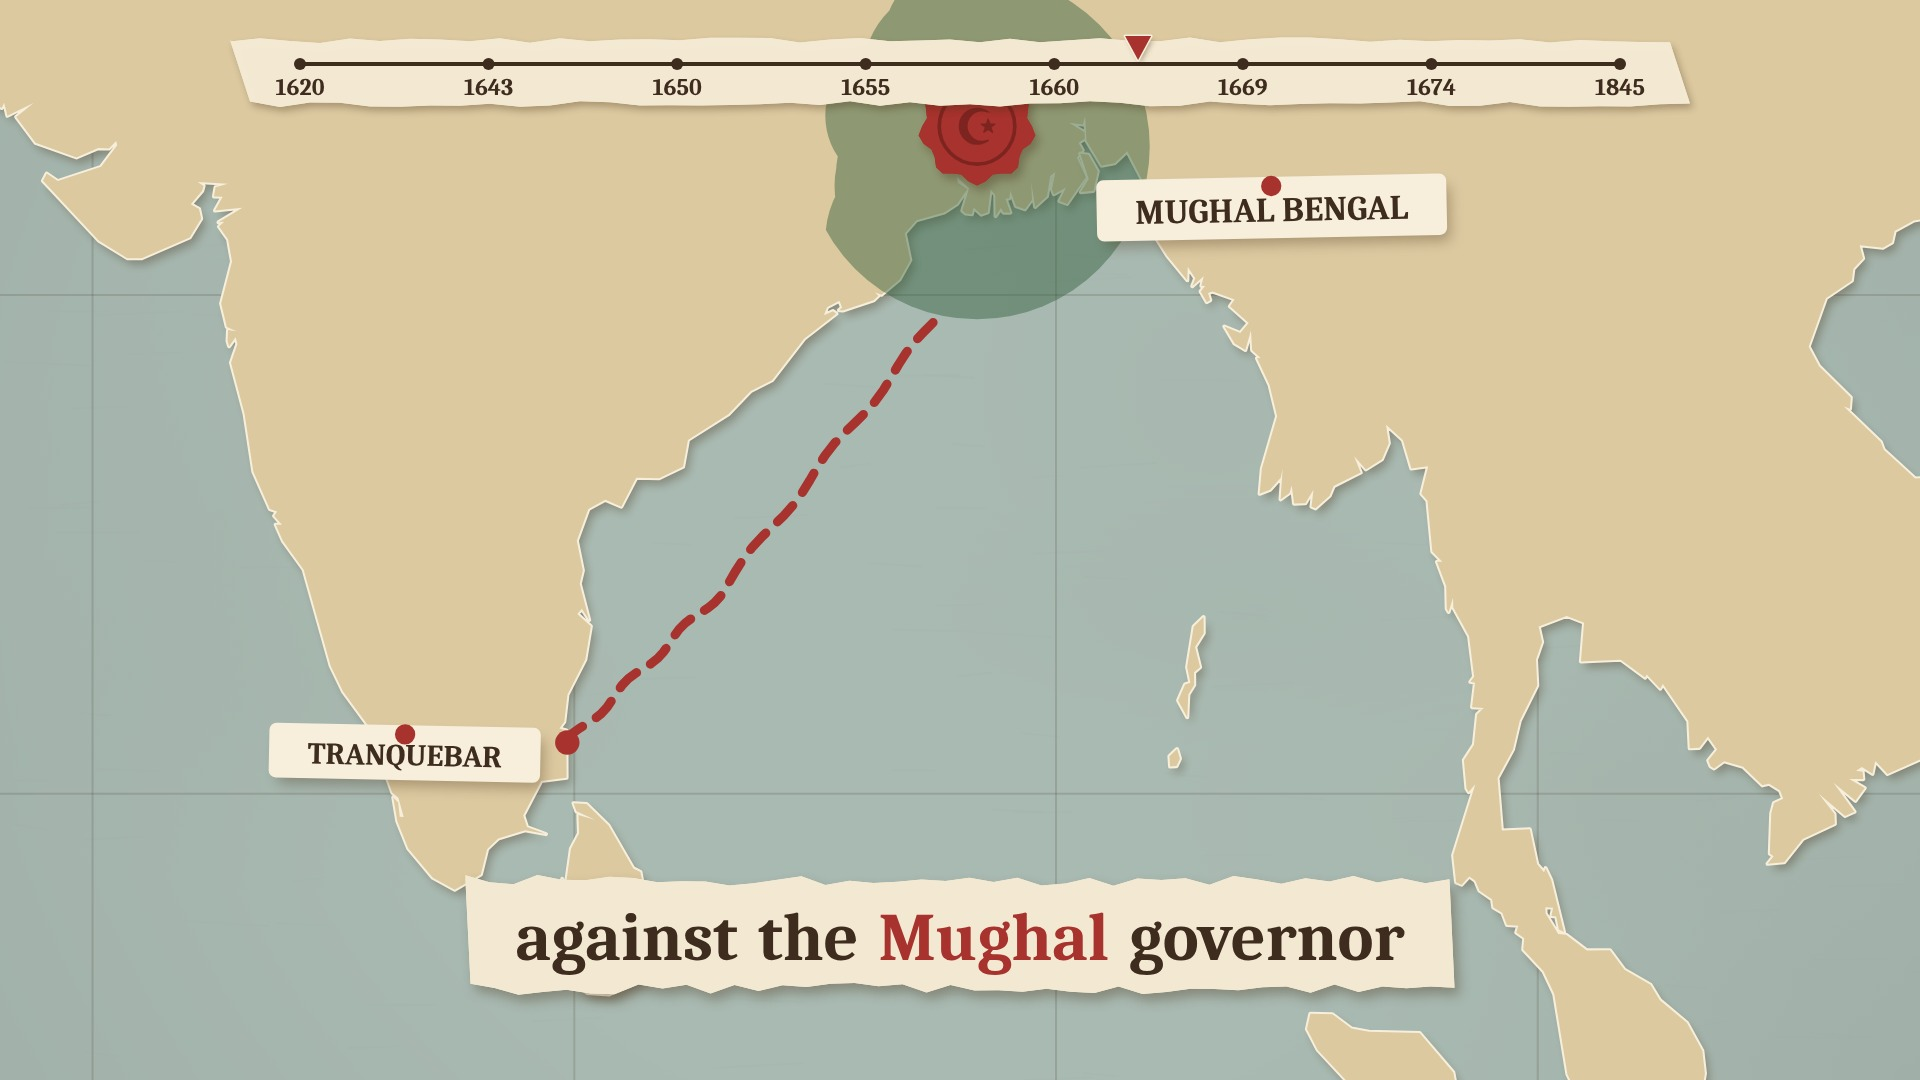
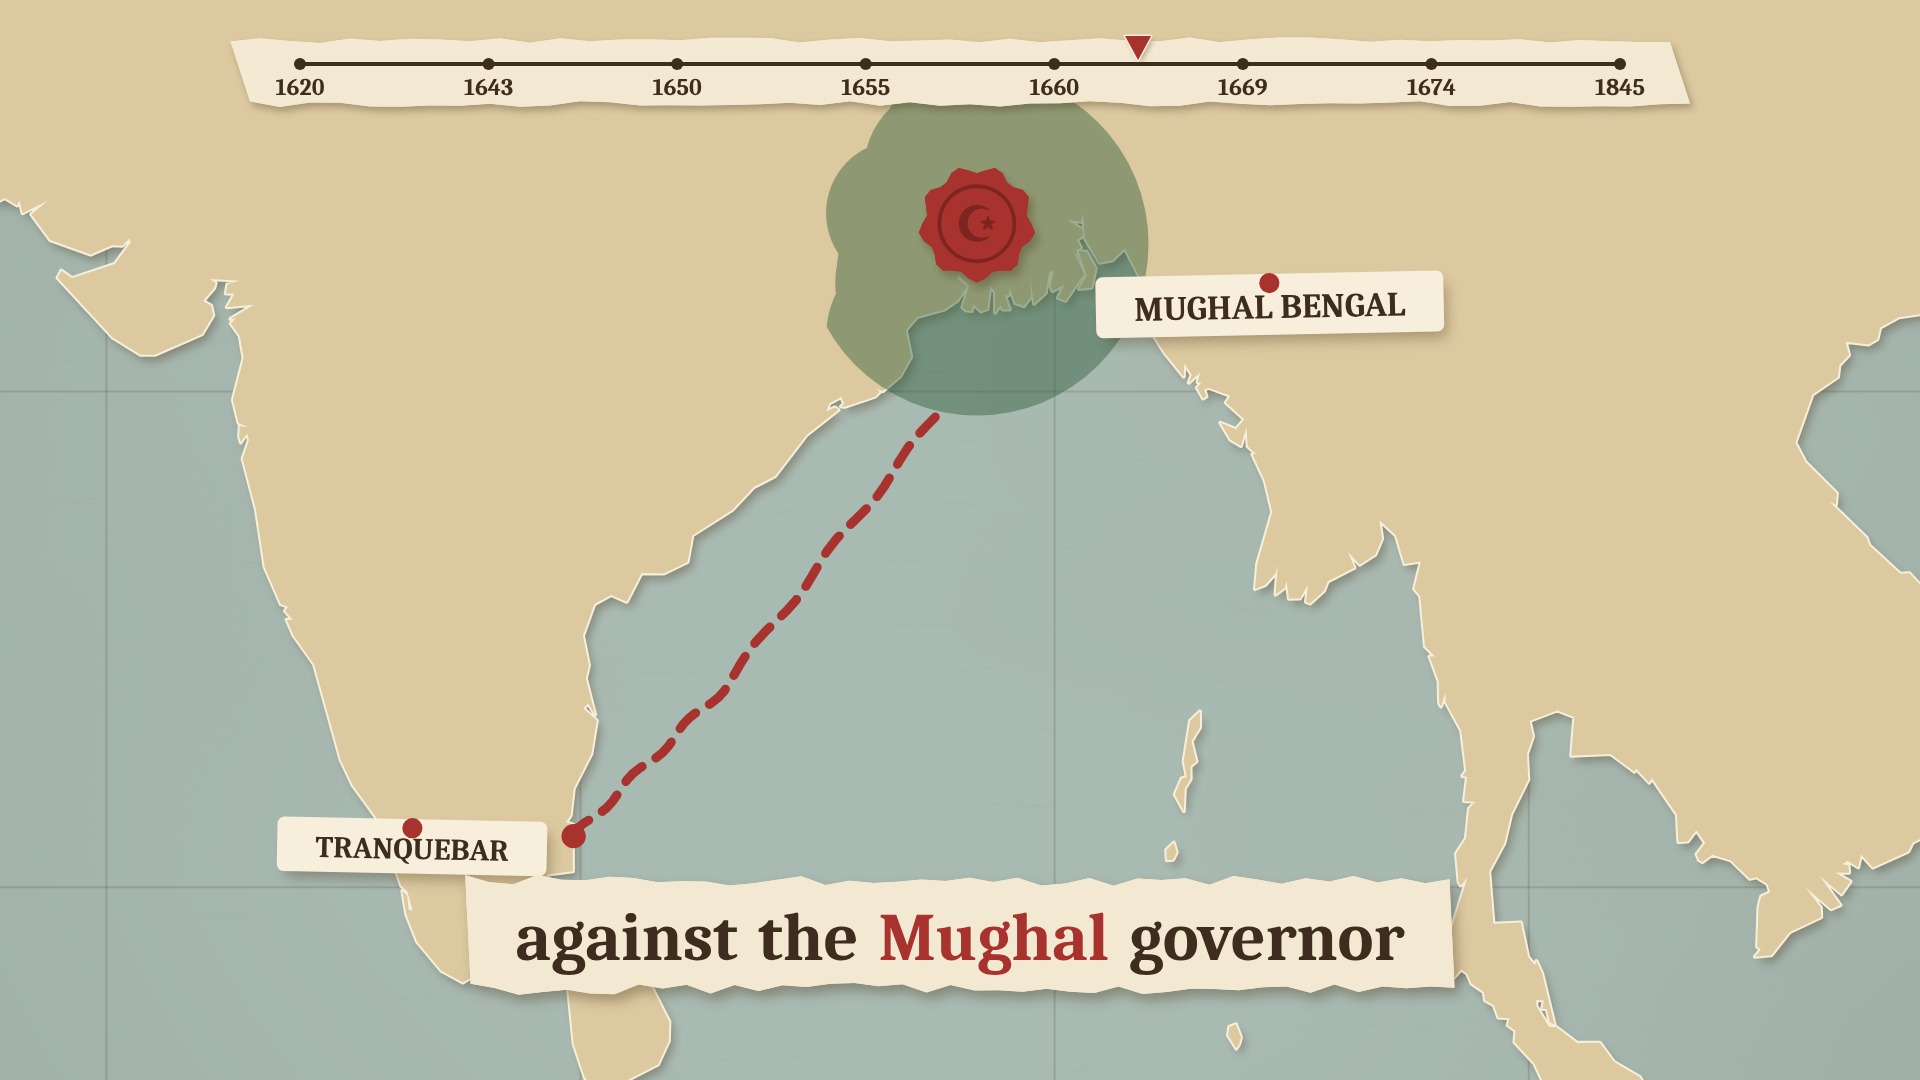
last-dane: beat 7 (a sail)
Claude-Session: https://claude.ai/code/session_01GgesWizCn3XPjU9Z13qe9i

diff --git a/last-dane/src/beats/b7_sail.js b/last-dane/src/beats/b7_sail.js
@@ -1,0 +1,100 @@
+// BEAT 7 · 1669 · A SAIL! (lines 78-91). Van Hagen to Copenhagen; the Færø; "IF DEAD…"; alive; peace and new villages.
+import { ctx, W, H, TAU, clamp, lerp, eo, eio, eob, circle } from '../core/lib.js';
+import { L, Le, Wd } from '../core/timing.js';
+import * as K from '../core/kit.js';
+import { at, pop, dim, ground, crowd, shapeOf } from './common.js';
+const { P, cut, P_rr, P_poly } = K;
+const VOY = ['Tranquebar', [74, 6], [62, 0], [55, -20], [35, -36], 'Cape of Good Hope', [10, -36], [-8, -20], [-22, 10], [-12, 35], [4, 51], 'Copenhagen'];
+
+export function b7(add, ev, snap) {
+  // S110 · whip → Geert van Hagen (Dutch coat, orange accent) takes the sealed letter; BEAT CARD
+  { const st = at(78), ms = Wd('messenger', 78);
+    add({ id: 'B7-S110', at: st, beat: 7, year: 1668, enter: 'whip', cam: K.cam.push(960, 560, 0.08), note: 'one last messenger',
+      draw(lt, d, t) { K.daySky(91, 640); K.sea(700, t); ground(860, '#C9B48A'); K.person({ who: 'kongsOld', x: 640, y: 1040, h: 600, t, arm: 55, prop: null }); K.person({ who: 'vanHagen', x: 1240, y: 1040, h: 600, t, dir: -1, arm: 40 });
+        const k = eio(clamp((t - ms + 0.2) / 0.8)); ctx.save(); ctx.translate(lerp(820, 1080, k), 650); ctx.rotate(-0.1); cut(P_rr(-70, -45, 140, 90, 4), '#F3E9D2', { shadow: 0.6, edge: 0 }); K.seal(0, 0, 0.22, ''); ctx.restore(); } });
+    ev(ms - 0.2, 'page', { note: 'letter handed over' });
+  }
+  // S111 · name slip GEERT VAN HAGEN
+  { const st = at(79), dt = Wd('dutchman', 79);
+    add({ id: 'B7-S111', at: st, beat: 7, year: 1668, cam: K.cam.push(1100, 420, 0.10), note: 'Geert van Hagen',
+      draw(lt, d, t) { K.daySky(92, 640); K.sea(700, t); ground(860, '#C9B48A'); K.person({ who: 'vanHagen', x: 1100, y: 1100, h: 820, t, dir: -1, arm: 30 }); K.slip('GEERT VAN HAGEN', 620, 330, pop(t, dt + 0.5), -0.03, 52); K.slip('A DUTCH SERGEANT', 640, 460, pop(t, dt + 0.8), 0.02, 32); } });
+    ev(dt + 0.5, 'pop', { note: 'name slip' });
+  }
+  // S112 · world map: the route races Tranquebar → Copenhagen
+  { const st = at(80);
+    add({ id: 'B7-S112', at: st, beat: 7, year: 1668, enter: 'whip', cam: K.cam.push(700, 400, 0.08), note: 'all the way to Copenhagen',
+      draw(lt, d, t) { const pr = K.realMap('world', { view: [-62, -44, 158, 78] }); const p = eio(clamp(lt / (d - 0.2))); const h = K.geoRoute(pr, VOY, p, { wobble: 4 }); if (p < 1) { ctx.save(); ctx.translate(h[0], h[1]); K.ship(0, 0, 0.12, 0); ctx.restore(); }
+        const [cx, cy] = K.place(pr, 'Copenhagen'), [tx, ty] = K.place(pr, 'Tranquebar'); circle(tx, ty, 10, P.crimson); circle(cx, cy, 10, P.ink); K.slip('COPENHAGEN', cx + 150, cy + 10, pop(t, st + d - 0.5), 0.02, 30); } });
+    ev(st + 0.1, 'route', { note: 'route races', dur: 1.6 });
+  }
+  // S113 · COPENHAGEN: the king's seal thuds on "worked"
+  { const st = at(81), wk = Wd('worked', 81);
+    add({ id: 'B7-S113', at: st, beat: 7, year: 1668, enter: 'whip', cam: K.cam.push(960, 540, 0.06), snaps: [snap(wk, 960, 520, 1.15, 0.6)], note: 'this time it worked',
+      draw(lt, d, t) { K.parchment(93); cut(P_rr(560, 300, 800, 520, 6), '#F3E9D2', { shadow: 1, edge: 0 }); ctx.strokeStyle = 'rgba(62,44,30,0.4)'; ctx.lineWidth = 4; for (let r = 0; r < 6; r++) { ctx.beginPath(); ctx.moveTo(640, 380 + r * 52); ctx.lineTo(1280 - r * 40, 380 + r * 52); ctx.stroke(); }
+        K.person({ who: 'king', x: 1650, y: 1000, h: 640, t, a: 0.85 }); if (t > wk) K.seal(1160, 700, pop(t, wk, 0.18) * 0.9, '♛'); K.coldWash(0.5); } });
+    ev(wk, 'seal', { note: "the king's seal" });
+  }
+  // S114 · STAT CARD FÆRØ · MAY 1669; a sail on the horizon
+  { const st = at(82), my = Wd('may', 82);
+    add({ id: 'B7-S114', at: st, beat: 7, year: 1669, enter: 'whip', cam: K.cam.push(1300, 560, 0.08), note: 'May 1669: a sail',
+      draw(lt, d, t) { K.daySky(94, 620); K.sea(640, t); const k = eio(clamp(lt / d)); K.ship(lerp(1700, 1450, k), 640, lerp(0.12, 0.22, k), 0); },
+      overlay(lt, d, t) { K.statCard('MAY 1669', 'THE FÆRØ ARRIVES', 560, 420, pop(t, my), { date: 1, size: 84 }); } });
+    ev(my, 'stat', { note: 'May 1669' }); ev(st + 1.0, 'bell', { note: 'distant bell', gain: 0.4 });
+  }
+  // S115 · the frigate Færø sails in; FÆRØ slip
+  { const st = at(83), fr = Wd('frigate', 83);
+    add({ id: 'B7-S115', at: st, beat: 7, year: 1669, cam: K.cam.drift(-110, 960, 520, 1.05), note: 'the frigate Færø',
+      draw(lt, d, t) { K.daySky(95, 620); K.sea(640, t, 3); const k = eio(clamp(lt / d)); K.ship(lerp(1500, 1100, k), 760 + K.idle.bob(t, 2, 8), 1.05, Math.sin(t * 1.3) * 0.03); ctx.save(); ctx.translate(lerp(1500, 1100, k), 760 + K.idle.bob(t, 2, 8)); ctx.scale(1.05, 1.05); ctx.fillStyle = P.crimson; ctx.fillRect(10, -520, 120, 80); ctx.fillStyle = '#FBF6EA'; ctx.fillRect(48, -520, 14, 80); ctx.fillRect(10, -486, 120, 14); ctx.restore(); K.slip('FÆRØ', 560, 320, pop(t, fr + 0.5), -0.03, 64); } });
+    ev(fr + 0.5, 'pop', { note: 'FÆRØ' }); ev(st + 0.2, 'appear', { note: 'sails breathe', type: 'flap' });
+  }
+  // S116 · the anchor drops off Tranquebar; bell + cheer on "anchor"
+  { const st = at(84), an = Wd('anchor', 84);
+    add({ id: 'B7-S116', at: st, beat: 7, year: 1669, cam: K.cam.push(960, 600, 0.07), note: 'anchor dropped; cheer',
+      draw(lt, d, t) { K.daySky(96, 600); K.sea(620, t); K.fortDansborg(420, 860, 0.7, t, { wall: 1, towers: 4, houses: 1 }); K.ship(1350, 760 + K.idle.bob(t, 2, 6), 0.8, 0); const k = clamp((t - an) / 0.5); ctx.strokeStyle = P.ink; ctx.lineWidth = 4; ctx.beginPath(); ctx.moveTo(1180, 770); ctx.lineTo(1150, 770 + 160 * k); ctx.stroke(); if (k > 0) cut(P_poly([[1130, 760 + 160 * k], [1170, 760 + 160 * k], [1150, 790 + 160 * k]]), P.ink, { shadow: 0.3, edge: 2 });
+        ground(880, '#DCC9A0'); for (let i = 0; i < 6; i++) K.person({ who: ['weaver', 'trader', 'soldier', 'defender', 'child', 'portuguese'][i], x: 260 + i * 140, y: 1020, h: 260, t, seed: i, arm: t > an ? 150 + Math.sin(t * 8 + i) * 20 : 0 }); } });
+    ev(an, 'bell', { note: 'ship bell' }); ev(an + 0.3, 'appear', { note: 'cheer', type: 'bed', name: 'crowd', dur: 1.5 });
+  }
+  // S117 · Henrik Eggers steps ashore: sharp uniform, sneer; name slip
+  { const st = at(85), eg = Wd('eggers', 85);
+    add({ id: 'B7-S117', at: st, beat: 7, year: 1669, enter: 'whip', cam: K.cam.push(1100, 460, 0.08), note: 'Henrik Eggers',
+      draw(lt, d, t) { K.daySky(97, 620); K.sea(660, t); ground(860, '#DCC9A0'); K.person({ who: 'officer', x: 1450, y: 1040, h: 560, t, dir: -1, seed: 2 }); K.person({ who: 'eggers', x: lerp(1300, 1080, eio(clamp(lt / 1.2))), y: 1060, h: 680, t, dir: -1, walk: lt < 1.2 ? t * 5 : undefined }); K.slip('HENRIK EGGERS', 560, 320, pop(t, eg), -0.03, 52); } });
+    ev(eg, 'pop', { note: 'name slip' });
+  }
+  // S118-119 · sealed orders: the seal cracks, the sheet unfolds to "IF DEAD…"; the town greys on "lost"
+  { const st = at(86), ins = Wd('instructions', 86), dd = Wd('dead', 87), ls = Wd('lost', 87);
+    add({ id: 'B7-S118', at: st, beat: 7, year: 1669, cam: K.cam.push(960, 520, 0.06), note: 'sealed instructions', draw(lt, d, t) { K.parchment(98); dim(0.25, '#7A4B3A'); K.sealedOrders(960, 540, 1.3, clamp((t - ins) / 1.6) * 0.45); } });
+    add({ id: 'B7-S119', at: at(87), beat: 7, year: 1669, cam: K.cam.push(960, 500, 0.08), snaps: [snap(dd, 960, 460, 1.15)], note: 'IF DEAD…',
+      draw(lt, d, t) { K.parchment(98); dim(0.25, '#7A4B3A'); K.sealedOrders(820, 540, 1.3, 0.45 + 0.55 * clamp((t - at(87)) / 0.8)); const g = clamp((t - ls) / 0.5); ctx.save(); ctx.filter = `grayscale(${g})`; K.fortDansborg(1530, 760, 0.42, t, { houses: 1 }); ctx.restore(); if (g > 0) { ctx.save(); ctx.globalAlpha = 0.5 * g; ctx.fillStyle = '#5B5B5B'; ctx.fillRect(1300, 560, 460, 220); ctx.restore(); } } });
+    ev(ins, 'seal', { note: 'seal cracks', gain: 0.6 }); ev(at(87) + 0.3, 'page', { note: 'orders unfold' }); ev(ls, 'appear', { note: 'town greys', type: 'swell', dur: 0.8 });
+  }
+  // S120 · SNAP on "alive": Kongsbakke at the gate with his lantern
+  { const st = at(88), av = Wd('alive', 88);
+    add({ id: 'B7-S120', at: st, beat: 7, year: 1669, enter: 'whip', cam: K.cam.push(900, 480, 0.06), snaps: [snap(av, 820, 420, 1.25)], note: 'found alive',
+      draw(lt, d, t) { K.daySky(99, 760); K.fortDansborg(960, 880, 1.7, t, { flag: true }); ground(880, '#C9B48A'); K.person({ who: 'kongsOld', x: 820, y: 1060, h: 660, t, prop: 'lantern', arm: 25 }); K.person({ who: 'eggers', x: 1500, y: 1060, h: 620, t, dir: -1, mood: 'worried' }); if (t > av) K.stamp('ALIVE', 1320, 330, pop(t, av, 0.18), 0.08, 90); } });
+    ev(av, 'stamp', { note: 'ALIVE' });
+  }
+  // S121 · the town in good order: market, flag, drilled guards
+  { const st = at(89), od = Wd('order', 89);
+    add({ id: 'B7-S121', at: st, beat: 7, year: 1669, cam: K.cam.drift(110, 960, 560, 1.05), note: 'the colony in good order',
+      draw(lt, d, t) { K.daySky(100, 620); K.fortDansborg(960, 760, 1.0, t, { wall: 1, towers: 4, houses: 1 }); ground(760, '#C9B48A'); for (let i = 0; i < 4; i++) cut(P_rr(200 + i * 420, 860, 200, 90, 8), ['#C8952F', '#A8503E', '#7E8B5A', '#C9B48A'][i], { shadow: 0.6, edge: 3 });
+        crowd([['weaver', 300, 1040], ['trader', 520, 1030], ['soldier', 760, 1040, { prop: 'pike' }], ['child', 980, 1040], ['defender', 1240, 1030], ['weaver', 1480, 1040], ['trader', 1700, 1030]], t, 300); K.stamp('IN GOOD ORDER', 960, 230, pop(t, od, 0.2), -0.05, 60); } });
+    ev(st + 0.3, 'appear', { note: 'market life', type: 'bed', name: 'crowd', dur: 1.8 }); ev(od, 'stamp', { note: 'IN GOOD ORDER' });
+  }
+  // S122 · map: crimson and green meet; PEACE
+  { const st = at(90), pc = Wd('peace', 90);
+    add({ id: 'B7-S122', at: st, beat: 7, year: 1669, enter: 'whip', cam: K.cam.push(1060, 520, 0.07), note: 'peace with the Nayak',
+      draw(lt, d, t) { const pr = K.realMap('south', { view: [77.6, 9.9, 81.6, 12.1] }); const [tx, ty] = K.place(pr, 'Tranquebar'), [jx, jy] = K.place(pr, 'Tanjore'); const land = shapeOf(pr, K.GEO.data.south.land);
+        ctx.save(); ctx.globalAlpha = 0.55; K.greenTide(land, 1, jx, jy, 900, 3); ctx.restore(); K.inkBleed(() => { ctx.beginPath(); ctx.arc(tx, ty, 50, 0, TAU); }, P.crimson, 1, tx, ty, 60, 2);
+        K.seal(jx + 140, jy - 60, pop(t, pc) * 0.55, '♛'); K.seal(tx - 120, ty - 70, pop(t, pc + 0.2) * 0.55, 'D'); K.slip('PEACE', (tx + jx) / 2, Math.min(ty, jy) - 200, pop(t, pc + 0.35), -0.02, 56); circle(jx, jy, 10, P.ink); K.slip('TANJORE', jx - 60, jy + 80, 1, 0.02, 34); K.slip('TRANQUEBAR', tx + 190, ty - 90, 1, 0.02, 32); } });
+    ev(pc, 'seal', { note: 'seals meet' }); ev(pc + 0.35, 'pop', { note: 'PEACE' });
+  }
+  // S123 · new villages ink-bleed crimson round Tranquebar on "villages"; sting
+  { const st = at(91), vl = Wd('villages', 91);
+    add({ id: 'B7-S123', at: st, beat: 7, year: 1669, cam: K.cam.push(1160, 520, 0.08), note: 'new villages, sting',
+      draw(lt, d, t) { const pr = K.realMap('south', { view: [77.6, 9.9, 81.6, 12.1] }); const [tx, ty] = K.place(pr, 'Tranquebar'), [jx, jy] = K.place(pr, 'Tanjore'); const land = shapeOf(pr, K.GEO.data.south.land);
+        ctx.save(); ctx.globalAlpha = 0.55; K.greenTide(land, 1, jx, jy, 900, 3); ctx.restore(); K.inkBleed(() => { ctx.beginPath(); ctx.arc(tx, ty, 50, 0, TAU); }, P.crimson, 1, tx, ty, 60, 2);
+        [[-110, -40], [-160, 70], [-60, 120]].forEach(([dx, dy], i) => { const k = clamp((t - vl - i * 0.2) / 0.6); K.inkBleed(() => { ctx.beginPath(); ctx.arc(tx + dx, ty + dy, 34, 0, TAU); }, P.crimson, k, tx + dx, ty + dy, 40, 5 + i); if (k > 0.5) circle(tx + dx, ty + dy, 7, P.ink); });
+        K.slip('NEW VILLAGES', tx - 330, ty + 40, pop(t, vl + 0.3), 0.02, 40); K.slip('TRANQUEBAR', tx + 190, ty - 90, 1, 0.02, 32); circle(jx, jy, 10, P.ink); K.slip('TANJORE', jx - 60, jy + 80, 1, 0.02, 34); } });
+    ev(vl, 'ink', { note: 'villages bleed in' }); ev(Le(91) - 0.05, 'sting', { note: 'beat 7 sting' });
+  }
+}

diff --git a/last-dane/src/beats/b6_trader.js b/last-dane/src/beats/b6_trader.js
@@ -42,8 +42,8 @@ export function b6(add, ev, snap) {
   }
   // S94-95 · north: the Bengal coast, Mughal deep green; the governor's seal stamps
   { const st = at(70), sea = Wd('sea', 70), mg = Wd('mughal', 71), view = [66, 4, 110, 26];
-    const map = (t, sealP) => { const pr = K.realMap('sea', { view: [66, 2, 110, 24] }); const T0 = K.place(pr, 'Tranquebar'), Bg = K.place(pr, 'Bengal'); ctx.save(); ctx.globalAlpha = 0.55; K.inkBleed(() => { ctx.beginPath(); ctx.arc(Bg[0], Bg[1] - 20, 170, 0, TAU); }, MUGHAL, 1, Bg[0], Bg[1] - 20, 180, 6); ctx.restore();
-      seaRoute(pr, 'Tranquebar', [[83, 14], [87.5, 19.5]], clamp((t - sea + 0.6) / 1.0)); circle(T0[0], T0[1], 12, P.crimson); K.slip('TRANQUEBAR', T0[0] - 160, T0[1] + 10, 1, 0.02, 30); K.slip('MUGHAL BENGAL', Bg[0] + 290, Bg[1] + 40, 1, -0.02, 34); if (sealP > 0) K.seal(Bg[0], Bg[1] - 40, sealP * 0.6, '☪'); };
+    const map = (t, sealP) => { const pr = K.realMap('sea', { view: [66, 6, 110, 28] }); const T0 = K.place(pr, 'Tranquebar'), Bg = K.place(pr, 'Bengal'); ctx.save(); ctx.globalAlpha = 0.55; K.inkBleed(() => { ctx.beginPath(); ctx.arc(Bg[0], Bg[1] - 20, 170, 0, TAU); }, MUGHAL, 1, Bg[0], Bg[1] - 20, 180, 6); ctx.restore();
+      seaRoute(pr, 'Tranquebar', [[83, 14], [87.5, 19.5]], clamp((t - sea + 0.6) / 1.0)); circle(T0[0], T0[1], 12, P.crimson); K.slip('TRANQUEBAR', T0[0] - 160, T0[1] + 10, 1, 0.02, 30); K.slip('MUGHAL BENGAL', Bg[0] + 290, Bg[1] + 40, 1, -0.02, 34); if (sealP > 0) K.seal(Bg[0], Bg[1] - 40, sealP * 0.6, ''); };
     add({ id: 'B6-S94', at: st, beat: 6, year: 1664, enter: 'whip', cam: K.cam.push(800, 460, 0.06), note: 'a private war at sea', draw(lt, d, t) { map(t, 0); } });
     add({ id: 'B6-S95', at: at(71), beat: 6, year: 1664, cam: K.cam.push(980, 520, 0.05), note: "the Mughal governor's seal", draw(lt, d, t) { map(t, pop(t, mg, 0.2)); } });
     ev(sea - 0.6, 'route', { note: 'route north', dur: 1.0 }); ev(mg, 'seal', { note: 'Mughal seal' });

diff --git a/last-dane/src/shots.js b/last-dane/src/shots.js
@@ -7,11 +7,12 @@ import { b3 } from './beats/b3_chosen.js';
 import { b4 } from './beats/b4_rent.js';
 import { b5 } from './beats/b5_nine.js';
 import { b6 } from './beats/b6_trader.js';
+import { b7 } from './beats/b7_sail.js';
 import { T } from './core/timing.js';
 
 export function buildShots() {
   const S = [], add = (o) => (S.push(o), o);
-  b0(add, K.ev, K.snap); b1(add, K.ev, K.snap); b2(add, K.ev, K.snap); b3(add, K.ev, K.snap); b4(add, K.ev, K.snap); b5(add, K.ev, K.snap); b6(add, K.ev, K.snap);
+  b0(add, K.ev, K.snap); b1(add, K.ev, K.snap); b2(add, K.ev, K.snap); b3(add, K.ev, K.snap); b4(add, K.ev, K.snap); b5(add, K.ev, K.snap); b6(add, K.ev, K.snap); b7(add, K.ev, K.snap);
   // foley beds (pilot: cold open + beat 1)
   const F = [[0, 7.0, 'siege', 1], [7.0, 13.0, 'room', 0.8], [13.0, 14.65, 'room', 0.6], [14.65, 17.5, 'siege', 0.9], [17.4, 25.9, 'harbour', 1],
     [25.9, 28.9, 'crowd', 0.8], [31.5, 36.2, 'room', 0.7], [38.7, 41.3, 'surf', 0.9], [47.8, 52.4, 'storm', 1], [55.3, 62.1, 'surf', 0.9]];
